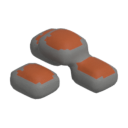
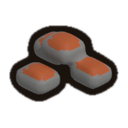
feat(items): draw an ink outline around item sprites
Every item sprite gets a thick, slightly wobbly black outline (the kit's ink
colour), like the paper cut-outs of the UI. item_outline.py draws it after
each render in vox_items.py and is idempotent; the sprites, the UI icons and
the atlas are regenerated.

Claude-Session: https://claude.ai/code/session_01QGjZPqKKwqLnz8xJvoX4yW

Changed region(s): [[0.0625, 0.1875, 0.9375, 0.8125], [0.4375, 0.375, 0.5625, 0.4062]]

diff --git a/artifacts/vox/clay/item_outline.py b/artifacts/vox/clay/item_outline.py
@@ -1,0 +1,81 @@
+#!/usr/bin/env python3
+# item_outline.py — the ink outline of the items the world drops: a thick, slightly wobbly black
+# line around the sprite, like the cut-out outline of the paper-and-clay UI kit (`--ac-ink`,
+# `#ac-wobble` in lib/web/ui/armada-ui.css).
+#
+#   python3 item_outline.py [wood stone …]   outline those sprites of lib/assets/items/ (all when
+#                                            none is named)
+#
+# vox_items.py --render calls it after every render. It is idempotent: an outlined PNG carries a
+# text chunk and is skipped, so running it twice never thickens the line. The sprites are drawn
+# small in the middle of a 1024 x 853 canvas and shrunk about three times when the atlas is
+# built, so the line is OUTLINE_PX of the source: about two pixels in the atlas.
+import math
+import os
+import sys
+
+import numpy as np
+from PIL import Image, ImageFilter, PngImagePlugin
+
+INK = (0x1A, 0x12, 0x0D)  # --ac-ink
+OUTLINE_PX = 7.0  # the line's width in the 1024-wide source
+WOBBLE_PX = 1.6  # how far the line strays from a true offset curve
+WOBBLE_CELL = 26  # the size of one wobble, in source pixels
+MARKER = "armada-outline"
+
+
+def wobble(shape, seed):
+    """Smooth noise in [-1, 1] of one wobble per WOBBLE_CELL, the same for the same seed."""
+    rng = np.random.default_rng(seed)
+    rows, cols = shape[0] // WOBBLE_CELL + 3, shape[1] // WOBBLE_CELL + 3
+    coarse = Image.fromarray((rng.random((rows, cols)) * 255).astype(np.uint8))
+    big = coarse.resize((cols * WOBBLE_CELL, rows * WOBBLE_CELL), Image.BICUBIC)
+    return np.asarray(big, dtype=np.float32)[: shape[0], : shape[1]] / 127.5 - 1.0
+
+
+def outline(image, seed=7):
+    """`image` (RGBA) with the ink line drawn around its opaque part.
+
+    The shape is blurred and cut at the level a straight edge has at OUTLINE_PX from it; moving
+    the level with smooth noise makes the line wander WOBBLE_PX either way, like the kit's
+    `#ac-wobble` filter.
+    """
+    rgba = image.convert("RGBA")
+    solid = np.asarray(rgba.getchannel("A")) > 8
+    sigma = OUTLINE_PX * 0.55
+    soft = Image.fromarray((solid * 255).astype(np.uint8)).filter(ImageFilter.GaussianBlur(sigma))
+    field = np.asarray(soft, dtype=np.float32) / 255.0
+    # The blurred value of a straight edge at distance d outside the shape is erfc(d / s√2) / 2.
+    noise = wobble(field.shape, seed)
+    steps = np.linspace(-1.0, 1.0, 65)
+    levels = np.array([0.5 * math.erfc((OUTLINE_PX + WOBBLE_PX * n) / (sigma * math.sqrt(2))) for n in steps])
+    level = np.interp(noise, steps, levels)
+    inked = field > level
+    ink = Image.new("RGBA", rgba.size, INK + (0,))
+    edge = Image.fromarray((inked * 255).astype(np.uint8)).filter(ImageFilter.GaussianBlur(0.8))
+    ink.putalpha(edge)
+    return Image.alpha_composite(ink, rgba)
+
+
+def outline_file(path):
+    """Outlines the PNG at `path` in place; False when it already was."""
+    image = Image.open(path)
+    if image.info.get(MARKER):
+        return False
+    text = PngImagePlugin.PngInfo()
+    text.add_text(MARKER, "1")
+    outline(image).save(path, pnginfo=text, optimize=True)
+    return True
+
+
+def main(names):
+    here = os.path.dirname(os.path.abspath(__file__))
+    folder = os.path.join(here, "..", "..", "..", "lib", "assets", "items")
+    names = names or sorted(f[:-4] for f in os.listdir(folder) if f.endswith(".png"))
+    for name in names:
+        path = os.path.join(folder, name + ".png")
+        print(f"{name}: {'outlined' if outline_file(path) else 'already outlined'}")
+
+
+if __name__ == "__main__":
+    main(sys.argv[1:])

diff --git a/artifacts/vox/clay/vox_items.py b/artifacts/vox/clay/vox_items.py
@@ -6,6 +6,9 @@
 #   python3 vox_items.py --render        → …and each one rendered onto lib/assets/items/<id>.png
 #   python3 vox_items.py --render wood   only those
 #
+# Every rendered sprite gets the ink outline of item_outline.py, so it reads on the ground like
+# the paper cut-outs of the UI kit.
+#
 # An item lies loose on the ground in the middle of a 1x1x1 tile: a small heap, much lower and
 # narrower than an entity (about a third of the tile across), so it reads as something to pick
 # up and not as something that grows there. The game draws it bobbing over its own shadow, so
@@ -13,6 +16,7 @@
 # kind of thing it is, in the colour the chips of its harvest fly in (`color` in items.json).
 import sys
 
+from item_outline import main as outline_main
 from vox_models import put, run
 
 
@@ -75,3 +79,7 @@ MODELS = {
 
 if __name__ == "__main__":
     run(MODELS, sys.argv[1:])
+    if "--render" in sys.argv:
+        # The sprites leave Blender bare; the ink line is drawn over them (item_outline.py).
+        outline_main([a[len("item_"):] if a.startswith("item_") else a
+                      for a in sys.argv[1:] if a != "--render"])

diff --git a/lib/docs/ASSET-PIPELINE.md b/lib/docs/ASSET-PIPELINE.md
@@ -80,7 +80,7 @@ piedra y de construcción: muros y tejados sobre el mismo módulo de 28.
 
 `artifacts/vox/clay/vox_items.py` arma los items que caen al suelo al recolectar (madera, piedra,
 fibra, hongo, coco, hueso, cobre y ámbar): montones pequeños en el centro de un volumen 1x1x1,
-renderizados a `lib/assets/items/<id>.png`, que cada item de `content/json/items.json` nombra en `sprite`.
+renderizados a `lib/assets/items/<id>.png`, que cada item de `content/json/items.json` nombra en `sprite`. Cada sprite lleva un **contorno de tinta negra** (`#1a120d`, el `--ac-ink` del kit de UI) algo ondulado, de 7 px en el original (unos dos en el atlas), como el recorte de papel de la interfaz: lo dibuja `artifacts/vox/clay/item_outline.py`, que `vox_items.py --render` llama tras cada render. Es idempotente (el PNG ya contorneado lleva un chunk `armada-outline` y se salta). Tras cambiar un sprite de item: `python3 lib/scripts/build-ui-icons.py`, copiar `web/ui/items/*.png` a `content/ui/items/` y `lib/scripts/build-atlas.sh`.
 
 `artifacts/vox/clay/terrain_clay.py` genera todo el terreno de suelo: hierba
 (`grass/block.png` y `block_2..4.png`), tierra (`ground/block.png`, `block_2..3.png`), arena

diff --git a/.claude/skills/armada-voxel-assets/SKILL.md b/.claude/skills/armada-voxel-assets/SKILL.md
@@ -478,7 +478,7 @@ arma con piezas del kit como cualquier modelo, en un volumen 1x1x1, pero pequeñ
 tercio de la casilla), en el centro, sin suelo ni sombra. Uno por item de `items.json`, en el
 color de las astillas de su recolección (el `color` del item); el sprite va a
 `lib/assets/items/<id>.png` y el item lo nombra en `sprite`. El juego lo dibuja flotando sobre
-su propia sombra. `python3 artifacts/vox/clay/vox_items.py --render [item_<id> …]`. El cobre usa
+su propia sombra. `python3 artifacts/vox/clay/vox_items.py --render [item_<id> …]`; tras renderizar, `item_outline.py` le dibuja el **contorno de tinta negra** ondulado (estilo papel de la UI) y hay que regenerar los iconos de UI y el atlas (ver `lib/docs/ASSET-PIPELINE.md`). El cobre usa
 `COPPER` (`#a8532c`, variante `copper` de `ore`).
 
 ## 8. Antes de entregar
